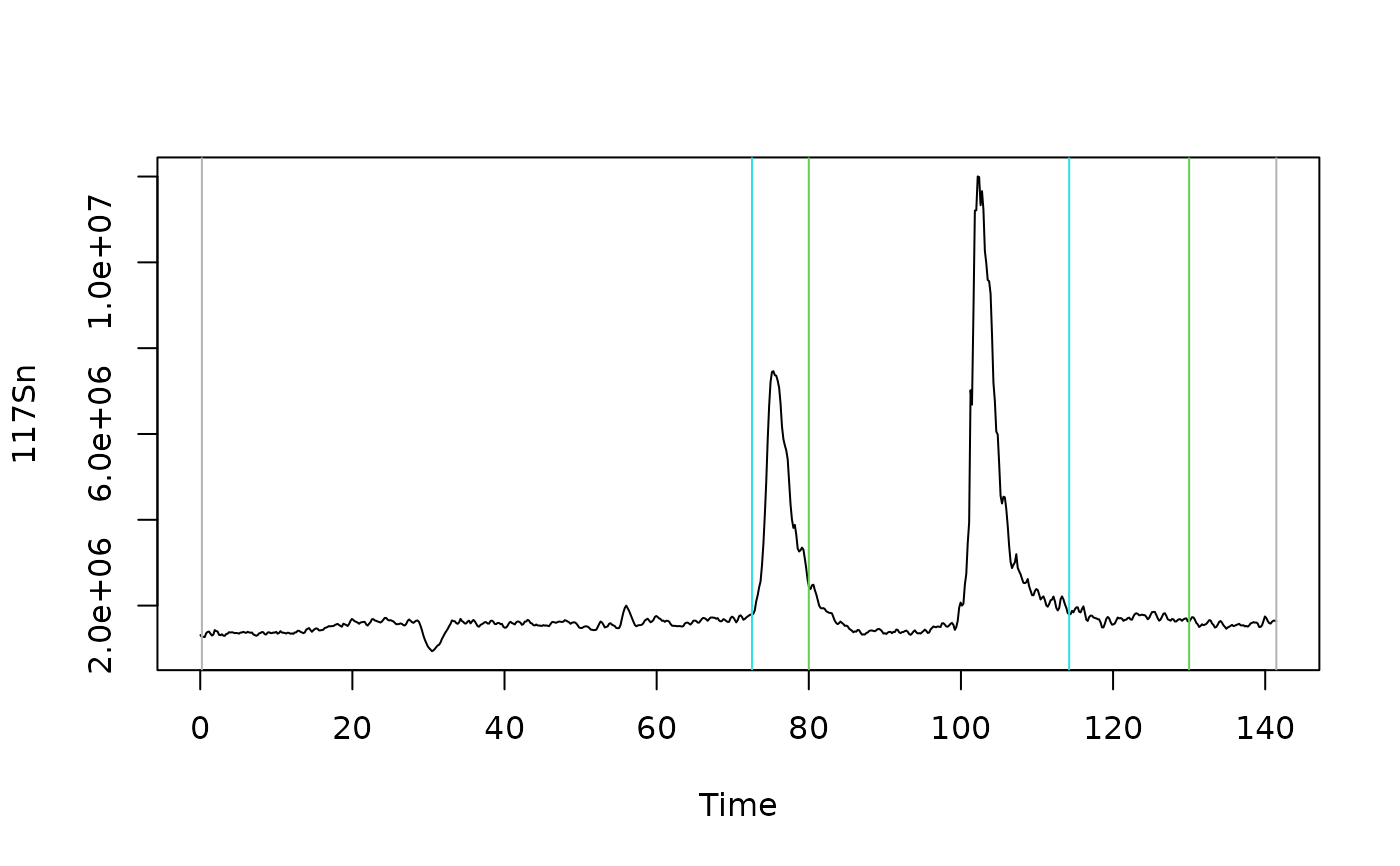
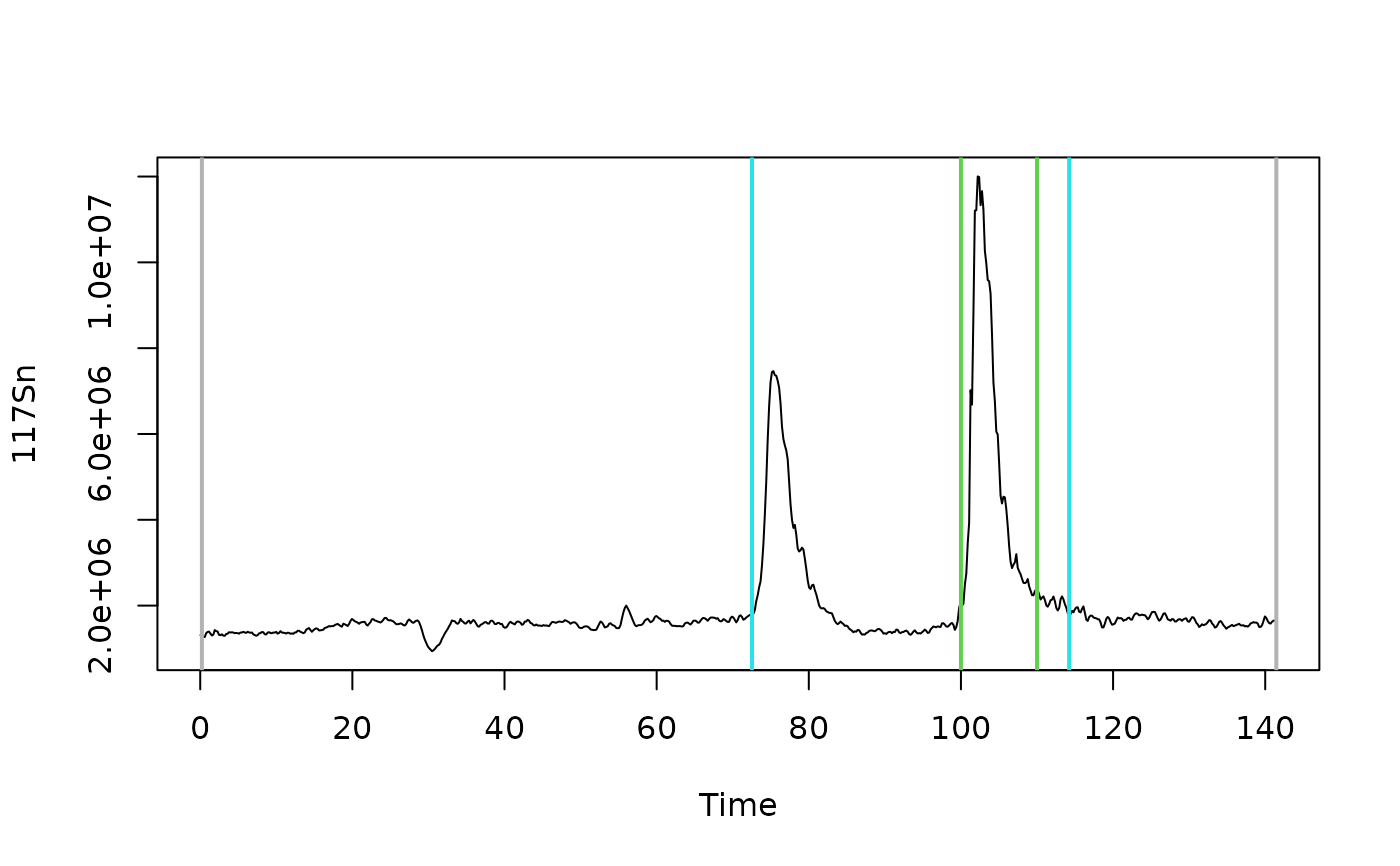
Deploying to gh-pages from @ janlisec/ETVapp@edb705d4d06b9ff9ac154be9b2b7b44cc67d9a7a 🚀

Changed region(s): [[0.7371, 0.1871, 0.7679, 0.7794]]

diff --git a/reference/get_peakdata.html b/reference/get_peakdata.html
@@ -55,7 +55,8 @@
 <span>  PPmethod <span class="op">=</span> <span class="fu"><a href="https://rdrr.io/r/base/c.html" class="external-link">c</a></span><span class="op">(</span><span class="st">"Peak (height)"</span>, <span class="st">"Peak (manual)"</span>, <span class="st">"mean signal"</span><span class="op">)</span>,</span>
 <span>  BLmethod <span class="op">=</span> <span class="fu"><a href="https://rdrr.io/r/base/c.html" class="external-link">c</a></span><span class="op">(</span><span class="st">"modpolyfit"</span>, <span class="st">"none"</span><span class="op">)</span>,</span>
 <span>  deg <span class="op">=</span> <span class="fl">1</span>,</span>
-<span>  cf <span class="op">=</span> <span class="fl">50</span></span>
+<span>  cf <span class="op">=</span> <span class="fl">50</span>,</span>
+<span>  simplify <span class="op">=</span> <span class="cn">TRUE</span></span>
 <span><span class="op">)</span></span></code></pre></div>
     </div>
 
@@ -64,7 +65,7 @@
 
 
 <dl><dt id="arg-pro-data">pro_data<a class="anchor" aria-label="anchor" href="#arg-pro-data"></a></dt>
-<dd><p>Data.frame with at least two numeric columns.</p></dd>
+<dd><p>Data.frame with at least two numeric columns or a list of such data.frames.</p></dd>
 
 
 <dt id="arg-int-col">int_col<a class="anchor" aria-label="anchor" href="#arg-int-col"></a></dt>
@@ -76,11 +77,13 @@
 
 
 <dt id="arg-peak-start">peak_start<a class="anchor" aria-label="anchor" href="#arg-peak-start"></a></dt>
-<dd><p>Value which is taken as peak start point, when manual peak picking is chosen.</p></dd>
+<dd><p>Value which is taken as peak start point, when manual peak
+picking is chosen. Can be a vector of length(pro_data) when this is a list
+of files.</p></dd>
 
 
 <dt id="arg-peak-end">peak_end<a class="anchor" aria-label="anchor" href="#arg-peak-end"></a></dt>
-<dd><p>Value which is taken as peak end point, when manual peak picking is chosen.</p></dd>
+<dd><p>Peak end point(s), cf. peak_start.</p></dd>
 
 
 <dt id="arg-minpeakheight">minpeakheight<a class="anchor" aria-label="anchor" href="#arg-minpeakheight"></a></dt>
@@ -102,6 +105,10 @@
 <dt id="arg-cf">cf<a class="anchor" aria-label="anchor" href="#arg-cf"></a></dt>
 <dd><p>A correction value for cutting the area around the detected peak.</p></dd>
 
+
+<dt id="arg-simplify">simplify<a class="anchor" aria-label="anchor" href="#arg-simplify"></a></dt>
+<dd><p>In case that pro_data is a list: shall result table be combined to a data.frame?</p></dd>
+
 </dl></div>
     <div class="section level2">
     <h2 id="value">Value<a class="anchor" aria-label="anchor" href="#value"></a></h2>
@@ -118,20 +125,25 @@
 
     <div class="section level2">
     <h2 id="ref-examples">Examples<a class="anchor" aria-label="anchor" href="#ref-examples"></a></h2>
-    <div class="sourceCode"><pre class="sourceCode r"><code><span class="r-in"><span><span class="va">raw_data</span> <span class="op">&lt;-</span> <span class="fu">ETVapp</span><span class="fu">::</span><span class="va"><a href="ETVapp_testdata.html">ETVapp_testdata</a></span><span class="op">[[</span><span class="st">"oIDMS"</span><span class="op">]</span><span class="op">]</span><span class="op">[[</span><span class="st">"Samples"</span><span class="op">]</span><span class="op">]</span><span class="op">[[</span><span class="fl">1</span><span class="op">]</span><span class="op">]</span></span></span>
+    <div class="sourceCode"><pre class="sourceCode r"><code><span class="r-in"><span><span class="va">raw_data</span> <span class="op">&lt;-</span> <span class="fu">ETVapp</span><span class="fu">::</span><span class="va"><a href="ETVapp_testdata.html">ETVapp_testdata</a></span><span class="op">[[</span><span class="st">"oIDMS"</span><span class="op">]</span><span class="op">]</span><span class="op">[[</span><span class="st">"Samples"</span><span class="op">]</span><span class="op">]</span></span></span>
 <span class="r-in"><span><span class="va">pro_data</span> <span class="op">&lt;-</span> <span class="fu"><a href="process_data.html">process_data</a></span><span class="op">(</span><span class="va">raw_data</span>, c1 <span class="op">=</span> <span class="st">"117Sn"</span>, c2 <span class="op">=</span> <span class="st">"80Se"</span>, fl <span class="op">=</span> <span class="fl">9</span><span class="op">)</span></span></span>
 <span class="r-in"><span><span class="va">peak_data</span> <span class="op">&lt;-</span> <span class="fu">get_peakdata</span><span class="op">(</span><span class="va">pro_data</span>, int_col <span class="op">=</span> <span class="st">"117Sn"</span><span class="op">)</span></span></span>
-<span class="r-in"><span><span class="fu"><a href="https://rdrr.io/r/graphics/plot.default.html" class="external-link">plot</a></span><span class="op">(</span>x <span class="op">=</span> <span class="va">pro_data</span><span class="op">[</span>,<span class="fl">1</span><span class="op">:</span><span class="fl">2</span><span class="op">]</span>, type <span class="op">=</span> <span class="st">"l"</span><span class="op">)</span></span></span>
-<span class="r-in"><span><span class="fu"><a href="https://rdrr.io/r/graphics/abline.html" class="external-link">abline</a></span><span class="op">(</span>v <span class="op">=</span> <span class="va">peak_data</span><span class="op">[</span><span class="fl">1</span>,<span class="fl">2</span><span class="op">:</span><span class="fl">3</span><span class="op">]</span>, col<span class="op">=</span><span class="fu"><a href="https://rdrr.io/r/grDevices/gray.html" class="external-link">grey</a></span><span class="op">(</span><span class="fl">0.7</span><span class="op">)</span><span class="op">)</span></span></span>
+<span class="r-in"><span><span class="fu"><a href="https://rdrr.io/r/graphics/plot.default.html" class="external-link">plot</a></span><span class="op">(</span>x <span class="op">=</span> <span class="va">pro_data</span><span class="op">[[</span><span class="fl">1</span><span class="op">]</span><span class="op">]</span><span class="op">[</span>,<span class="fl">1</span><span class="op">:</span><span class="fl">2</span><span class="op">]</span>, type <span class="op">=</span> <span class="st">"l"</span><span class="op">)</span></span></span>
+<span class="r-in"><span><span class="fu"><a href="https://rdrr.io/r/graphics/abline.html" class="external-link">abline</a></span><span class="op">(</span>v <span class="op">=</span> <span class="va">peak_data</span><span class="op">[</span><span class="fl">1</span>,<span class="fl">2</span><span class="op">:</span><span class="fl">3</span><span class="op">]</span>, col<span class="op">=</span><span class="fu"><a href="https://rdrr.io/r/grDevices/gray.html" class="external-link">grey</a></span><span class="op">(</span><span class="fl">0.7</span><span class="op">)</span>, lwd<span class="op">=</span><span class="fl">2</span><span class="op">)</span></span></span>
 <span class="r-in"><span></span></span>
 <span class="r-in"><span><span class="co"># limiting peak detection using the 'minpeakheight' parameter</span></span></span>
 <span class="r-in"><span><span class="va">peak_data</span> <span class="op">&lt;-</span> <span class="fu">get_peakdata</span><span class="op">(</span><span class="va">pro_data</span>, int_col <span class="op">=</span> <span class="st">"117Sn"</span>, minpeakheight <span class="op">=</span> <span class="fl">2</span><span class="op">*</span><span class="fl">10</span><span class="op">^</span><span class="fl">6</span><span class="op">)</span></span></span>
-<span class="r-in"><span><span class="fu"><a href="https://rdrr.io/r/graphics/abline.html" class="external-link">abline</a></span><span class="op">(</span>v <span class="op">=</span> <span class="va">peak_data</span><span class="op">[</span><span class="fl">1</span>,<span class="fl">2</span><span class="op">:</span><span class="fl">3</span><span class="op">]</span>, col<span class="op">=</span><span class="fl">5</span><span class="op">)</span></span></span>
+<span class="r-in"><span><span class="fu"><a href="https://rdrr.io/r/graphics/abline.html" class="external-link">abline</a></span><span class="op">(</span>v <span class="op">=</span> <span class="va">peak_data</span><span class="op">[</span><span class="fl">1</span>,<span class="fl">2</span><span class="op">:</span><span class="fl">3</span><span class="op">]</span>, col<span class="op">=</span><span class="fl">5</span>, lwd<span class="op">=</span><span class="fl">2</span><span class="op">)</span></span></span>
 <span class="r-in"><span></span></span>
 <span class="r-in"><span><span class="co"># limiting peak detection setting start and end manually</span></span></span>
 <span class="r-in"><span><span class="va">peak_data</span> <span class="op">&lt;-</span> <span class="fu">get_peakdata</span><span class="op">(</span><span class="va">pro_data</span>, int_col <span class="op">=</span> <span class="st">"117Sn"</span>, PPmethod <span class="op">=</span> <span class="st">"Peak (manual)"</span>,</span></span>
-<span class="r-in"><span>  peak_start <span class="op">=</span> <span class="fl">80</span>, peak_end <span class="op">=</span> <span class="fl">130</span><span class="op">)</span></span></span>
-<span class="r-in"><span><span class="fu"><a href="https://rdrr.io/r/graphics/abline.html" class="external-link">abline</a></span><span class="op">(</span>v <span class="op">=</span> <span class="va">peak_data</span><span class="op">[</span><span class="fl">1</span>,<span class="fl">2</span><span class="op">:</span><span class="fl">3</span><span class="op">]</span>, col<span class="op">=</span><span class="fl">3</span><span class="op">)</span></span></span>
+<span class="r-in"><span>  peak_start <span class="op">=</span> <span class="fl">100</span><span class="op">:</span><span class="fl">102</span>, peak_end <span class="op">=</span> <span class="fl">110</span><span class="op">:</span><span class="fl">112</span><span class="op">)</span></span></span>
+<span class="r-in"><span><span class="va">peak_data</span></span></span>
+<span class="r-out co"><span class="r-pr">#&gt;</span>   Isotope Start [s] End [s] Area [cts]   BLmethod</span>
+<span class="r-out co"><span class="r-pr">#&gt;</span> 1   117Sn       100     110   39889245 modpolyfit</span>
+<span class="r-out co"><span class="r-pr">#&gt;</span> 2   117Sn       101     111   33733729 modpolyfit</span>
+<span class="r-out co"><span class="r-pr">#&gt;</span> 3   117Sn       102     112   29611834 modpolyfit</span>
+<span class="r-in"><span><span class="fu"><a href="https://rdrr.io/r/graphics/abline.html" class="external-link">abline</a></span><span class="op">(</span>v <span class="op">=</span> <span class="va">peak_data</span><span class="op">[</span><span class="fl">1</span>,<span class="fl">2</span><span class="op">:</span><span class="fl">3</span><span class="op">]</span>, col<span class="op">=</span><span class="fl">3</span>, lwd<span class="op">=</span><span class="fl">2</span><span class="op">)</span></span></span>
 <span class="r-plt img"><img src="get_peakdata-1.png" alt="" width="700" height="433"></span>
 </code></pre></div>
     </div>

diff --git a/reference/tab_cali.html b/reference/tab_cali.html
@@ -151,10 +151,8 @@
 <span class="r-in"><span></span></span>
 <span class="r-in"><span><span class="co"># import and process cali data of `oIDMS` workflow</span></span></span>
 <span class="r-in"><span><span class="va">spion_imp</span> <span class="op">&lt;-</span> <span class="fu">ETVapp</span><span class="fu">::</span><span class="va"><a href="ETVapp_testdata.html">ETVapp_testdata</a></span><span class="op">[[</span><span class="st">"oIDMS"</span><span class="op">]</span><span class="op">]</span><span class="op">[[</span><span class="st">"sp_ionic"</span><span class="op">]</span><span class="op">]</span></span></span>
-<span class="r-in"><span><span class="va">cali_pks</span> <span class="op">&lt;-</span> <span class="fu"><a href="ldply_base.html">ldply_base</a></span><span class="op">(</span><span class="fl">1</span><span class="op">:</span><span class="fu"><a href="https://rdrr.io/r/base/length.html" class="external-link">length</a></span><span class="op">(</span><span class="va">spion_imp</span><span class="op">)</span>, <span class="kw">function</span><span class="op">(</span><span class="va">i</span><span class="op">)</span> <span class="op">{</span></span></span>
-<span class="r-in"><span>  <span class="fu"><a href="get_peakdata.html">get_peakdata</a></span><span class="op">(</span><span class="va">spion_imp</span><span class="op">[[</span><span class="va">i</span><span class="op">]</span><span class="op">]</span><span class="op">[</span>,<span class="fu"><a href="https://rdrr.io/r/base/c.html" class="external-link">c</a></span><span class="op">(</span><span class="st">"Time"</span>, <span class="st">"197Au"</span><span class="op">)</span><span class="op">]</span>, int_col <span class="op">=</span> <span class="st">"197Au"</span>,</span></span>
+<span class="r-in"><span><span class="va">cali_pks</span> <span class="op">&lt;-</span> <span class="fu"><a href="get_peakdata.html">get_peakdata</a></span><span class="op">(</span><span class="va">spion_imp</span>, int_col <span class="op">=</span> <span class="st">"197Au"</span>,</span></span>
 <span class="r-in"><span>    PPmethod <span class="op">=</span> <span class="st">"mean signal"</span>, peak_start <span class="op">=</span> <span class="fl">0.003</span>, peak_end <span class="op">=</span> <span class="fl">60</span><span class="op">)</span></span></span>
-<span class="r-in"><span><span class="op">}</span><span class="op">)</span></span></span>
 <span class="r-in"><span><span class="fu">tab_cali</span><span class="op">(</span>peak_data <span class="op">=</span> <span class="va">cali_pks</span>, wf <span class="op">=</span> <span class="st">"oIDMS"</span>, std_info <span class="op">=</span> <span class="fu"><a href="https://rdrr.io/r/base/c.html" class="external-link">c</a></span><span class="op">(</span><span class="fl">20</span>, <span class="fl">50</span>, <span class="fl">100</span>, <span class="fl">200</span>, <span class="fl">500</span><span class="op">)</span><span class="op">)</span></span></span>
 <span class="r-out co"><span class="r-pr">#&gt;</span>   Isotope Start [s] End [s] Mean Signal [cps] Concentration [µg/L]</span>
 <span class="r-out co"><span class="r-pr">#&gt;</span> 1   197Au     0.003      60         156366.77                   20</span>

diff --git a/reference/get_peakdata.md b/reference/get_peakdata.md
@@ -15,7 +15,8 @@ get_peakdata(
   PPmethod = c("Peak (height)", "Peak (manual)", "mean signal"),
   BLmethod = c("modpolyfit", "none"),
   deg = 1,
-  cf = 50
+  cf = 50,
+  simplify = TRUE
 )
 ```
 
@@ -23,7 +24,8 @@ get_peakdata(
 
 - pro_data:
 
-  Data.frame with at least two numeric columns.
+  Data.frame with at least two numeric columns or a list of such
+  data.frames.
 
 - int_col:
 
@@ -36,12 +38,12 @@ get_peakdata(
 - peak_start:
 
   Value which is taken as peak start point, when manual peak picking is
-  chosen.
+  chosen. Can be a vector of length(pro_data) when this is a list of
+  files.
 
 - peak_end:
 
-  Value which is taken as peak end point, when manual peak picking is
-  chosen.
+  Peak end point(s), cf. peak_start.
 
 - minpeakheight:
 
@@ -63,6 +65,11 @@ get_peakdata(
 
   A correction value for cutting the area around the detected peak.
 
+- simplify:
+
+  In case that pro_data is a list: shall result table be combined to a
+  data.frame?
+
 ## Value
 
 A data.frame with the peak boundaries in seconds and the peak area in
@@ -79,18 +86,23 @@ compute the peak area using the trapezoidal rule.
 ## Examples
 
 ``` r
-raw_data <- ETVapp::ETVapp_testdata[["oIDMS"]][["Samples"]][[1]]
+raw_data <- ETVapp::ETVapp_testdata[["oIDMS"]][["Samples"]]
 pro_data <- process_data(raw_data, c1 = "117Sn", c2 = "80Se", fl = 9)
 peak_data <- get_peakdata(pro_data, int_col = "117Sn")
-plot(x = pro_data[,1:2], type = "l")
-abline(v = peak_data[1,2:3], col=grey(0.7))
+plot(x = pro_data[[1]][,1:2], type = "l")
+abline(v = peak_data[1,2:3], col=grey(0.7), lwd=2)
 
 # limiting peak detection using the 'minpeakheight' parameter
 peak_data <- get_peakdata(pro_data, int_col = "117Sn", minpeakheight = 2*10^6)
-abline(v = peak_data[1,2:3], col=5)
+abline(v = peak_data[1,2:3], col=5, lwd=2)
 
 # limiting peak detection setting start and end manually
 peak_data <- get_peakdata(pro_data, int_col = "117Sn", PPmethod = "Peak (manual)",
-  peak_start = 80, peak_end = 130)
-abline(v = peak_data[1,2:3], col=3)
+  peak_start = 100:102, peak_end = 110:112)
+peak_data
+#>   Isotope Start [s] End [s] Area [cts]   BLmethod
+#> 1   117Sn       100     110   39889245 modpolyfit
+#> 2   117Sn       101     111   33733729 modpolyfit
+#> 3   117Sn       102     112   29611834 modpolyfit
+abline(v = peak_data[1,2:3], col=3, lwd=2)
 ```

diff --git a/reference/tab_cali.md b/reference/tab_cali.md
@@ -115,10 +115,8 @@ tab_cali(peak_data = cali_pks, wf = "ExtGasCal", ExtGasCal_unit = "\u00b5L/min",
 
 # import and process cali data of `oIDMS` workflow
 spion_imp <- ETVapp::ETVapp_testdata[["oIDMS"]][["sp_ionic"]]
-cali_pks <- ldply_base(1:length(spion_imp), function(i) {
-  get_peakdata(spion_imp[[i]][,c("Time", "197Au")], int_col = "197Au",
+cali_pks <- get_peakdata(spion_imp, int_col = "197Au",
     PPmethod = "mean signal", peak_start = 0.003, peak_end = 60)
-})
 tab_cali(peak_data = cali_pks, wf = "oIDMS", std_info = c(20, 50, 100, 200, 500))
 #>   Isotope Start [s] End [s] Mean Signal [cps] Concentration [µg/L]
 #> 1   197Au     0.003      60         156366.77                   20